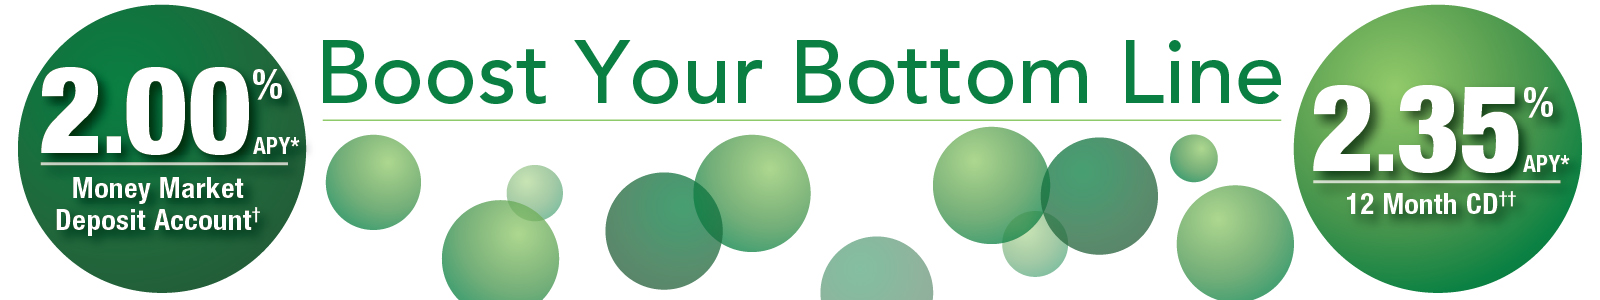
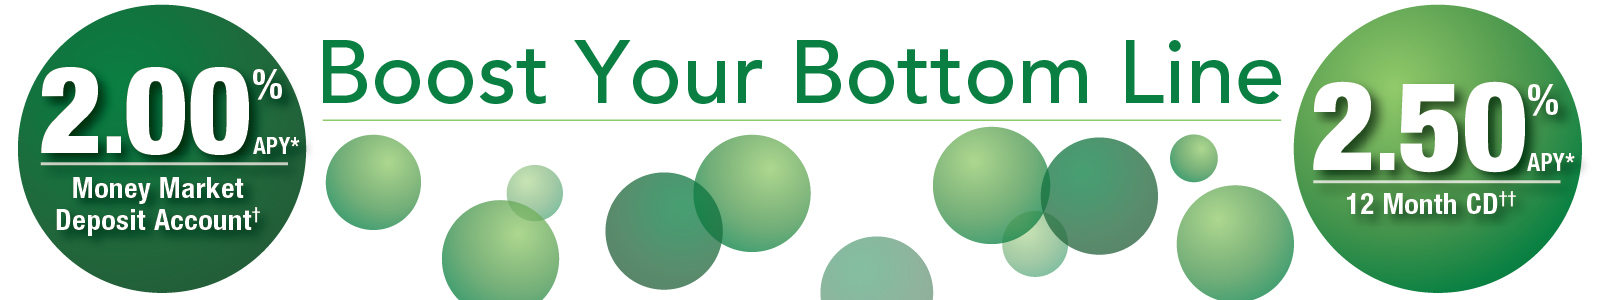
Changes due to rate change

Changed region(s): [[0.8125, 0.27, 1.0, 0.6], [0.8125, 0.36, 0.8438, 0.39]]

diff --git a/savings.html b/savings.html
@@ -138,7 +138,7 @@
               </div>
             </div><!-- row -->
             <div class="row spacer">
-              <p class="small para-margin"><sup>*</sup>Annual Percentage Yield (APY) <sup>†</sup>Money Market Deposit Account: Promotional rate of 2.00% APY for new accounts effective as of 10/15/18 and guaranteed for the first 365 days after account opening. Promotional rate offered on $10,000.00 or more of new money not currently on deposit within last 30 days with CIBM Bank. Minimum opening deposit of $100.00. The interest rate is subject to change at any time after initial 365 days. As of 10/10/18 Personal Money Market balances of $0.00-$9,999.99 (.08% APY); $10,000.00-$24,999.99 (.10% APY); $25,000.00-$49,999.99 (.13% APY); $50,000.00-$99,999.99 (.14% APY); $100,000.00 and above (.15% APY). Monthly fee $2.00 per debit if $1,000.00 minimum balance not maintained. As of 10/10/18 Business Money Market balances of $0.00-$9,999.99 (.08% APY); $10,000.00-$24,999.99 (.10% APY); $25,000.00-$49,999.99 (.13% APY); $50,000.00-$99,999.99 (.14% APY); $100,000.00 and above (.15% APY). Monthly fee $15.00 service charge if $5,000.00 minimum balance not maintained. Fees may reduce earnings. Accounts closed within 6 months of opening date subject to a $25.00 closing fee.  <sup>††</sup>12 Month Certificate of Deposit & IRA: Promotional rate of 2.35% (APY) effective as of 10/15/18 and guaranteed for the term of the account. Offer limited to $10,000.00 or more of new money not currently on deposit within last 30 days with CIBM Bank. Minimum opening deposit of $2,500.00 and a maximum of $250,000.00. Withdrawals made prior to maturity may be subject to an early withdrawal penalty. Offer not available in combination with any other offer.</p>
+              <p class="small para-margin"><sup>*</sup>Annual Percentage Yield (APY) <sup>†</sup>Money Market Deposit Account: Promotional rate of 2.00% APY for new accounts effective as of 10/15/18 and guaranteed for the first 365 days after account opening. Promotional rate offered on $10,000.00 or more of new money not currently on deposit within last 30 days with CIBM Bank. Minimum opening deposit of $100.00. The interest rate is subject to change at any time after initial 365 days. As of 10/10/18 Personal Money Market balances of $0.00-$9,999.99 (.08% APY); $10,000.00-$24,999.99 (.10% APY); $25,000.00-$49,999.99 (.13% APY); $50,000.00-$99,999.99 (.14% APY); $100,000.00 and above (.15% APY). Monthly fee $2.00 per debit if $1,000.00 minimum balance not maintained. As of 10/10/18 Business Money Market balances of $0.00-$9,999.99 (.08% APY); $10,000.00-$24,999.99 (.10% APY); $25,000.00-$49,999.99 (.13% APY); $50,000.00-$99,999.99 (.14% APY); $100,000.00 and above (.15% APY). Monthly fee $15.00 service charge if $5,000.00 minimum balance not maintained. Fees may reduce earnings. Accounts closed within 6 months of opening date subject to a $25.00 closing fee.  <sup>††</sup>12 Month Certificate of Deposit & IRA: Promotional rate of 2.50% (APY) effective as of 10/29/18 and guaranteed for the term of the account. Offer limited to $10,000.00 or more of new money not currently on deposit within last 30 days with CIBM Bank. Minimum opening deposit of $2,500.00 and a maximum of $250,000.00. Withdrawals made prior to maturity may be subject to an early withdrawal penalty. Offer not available in combination with any other offer.</p>
             </div><!-- row -->
             <div class="row spacer">
               <div class="col-md-6">
